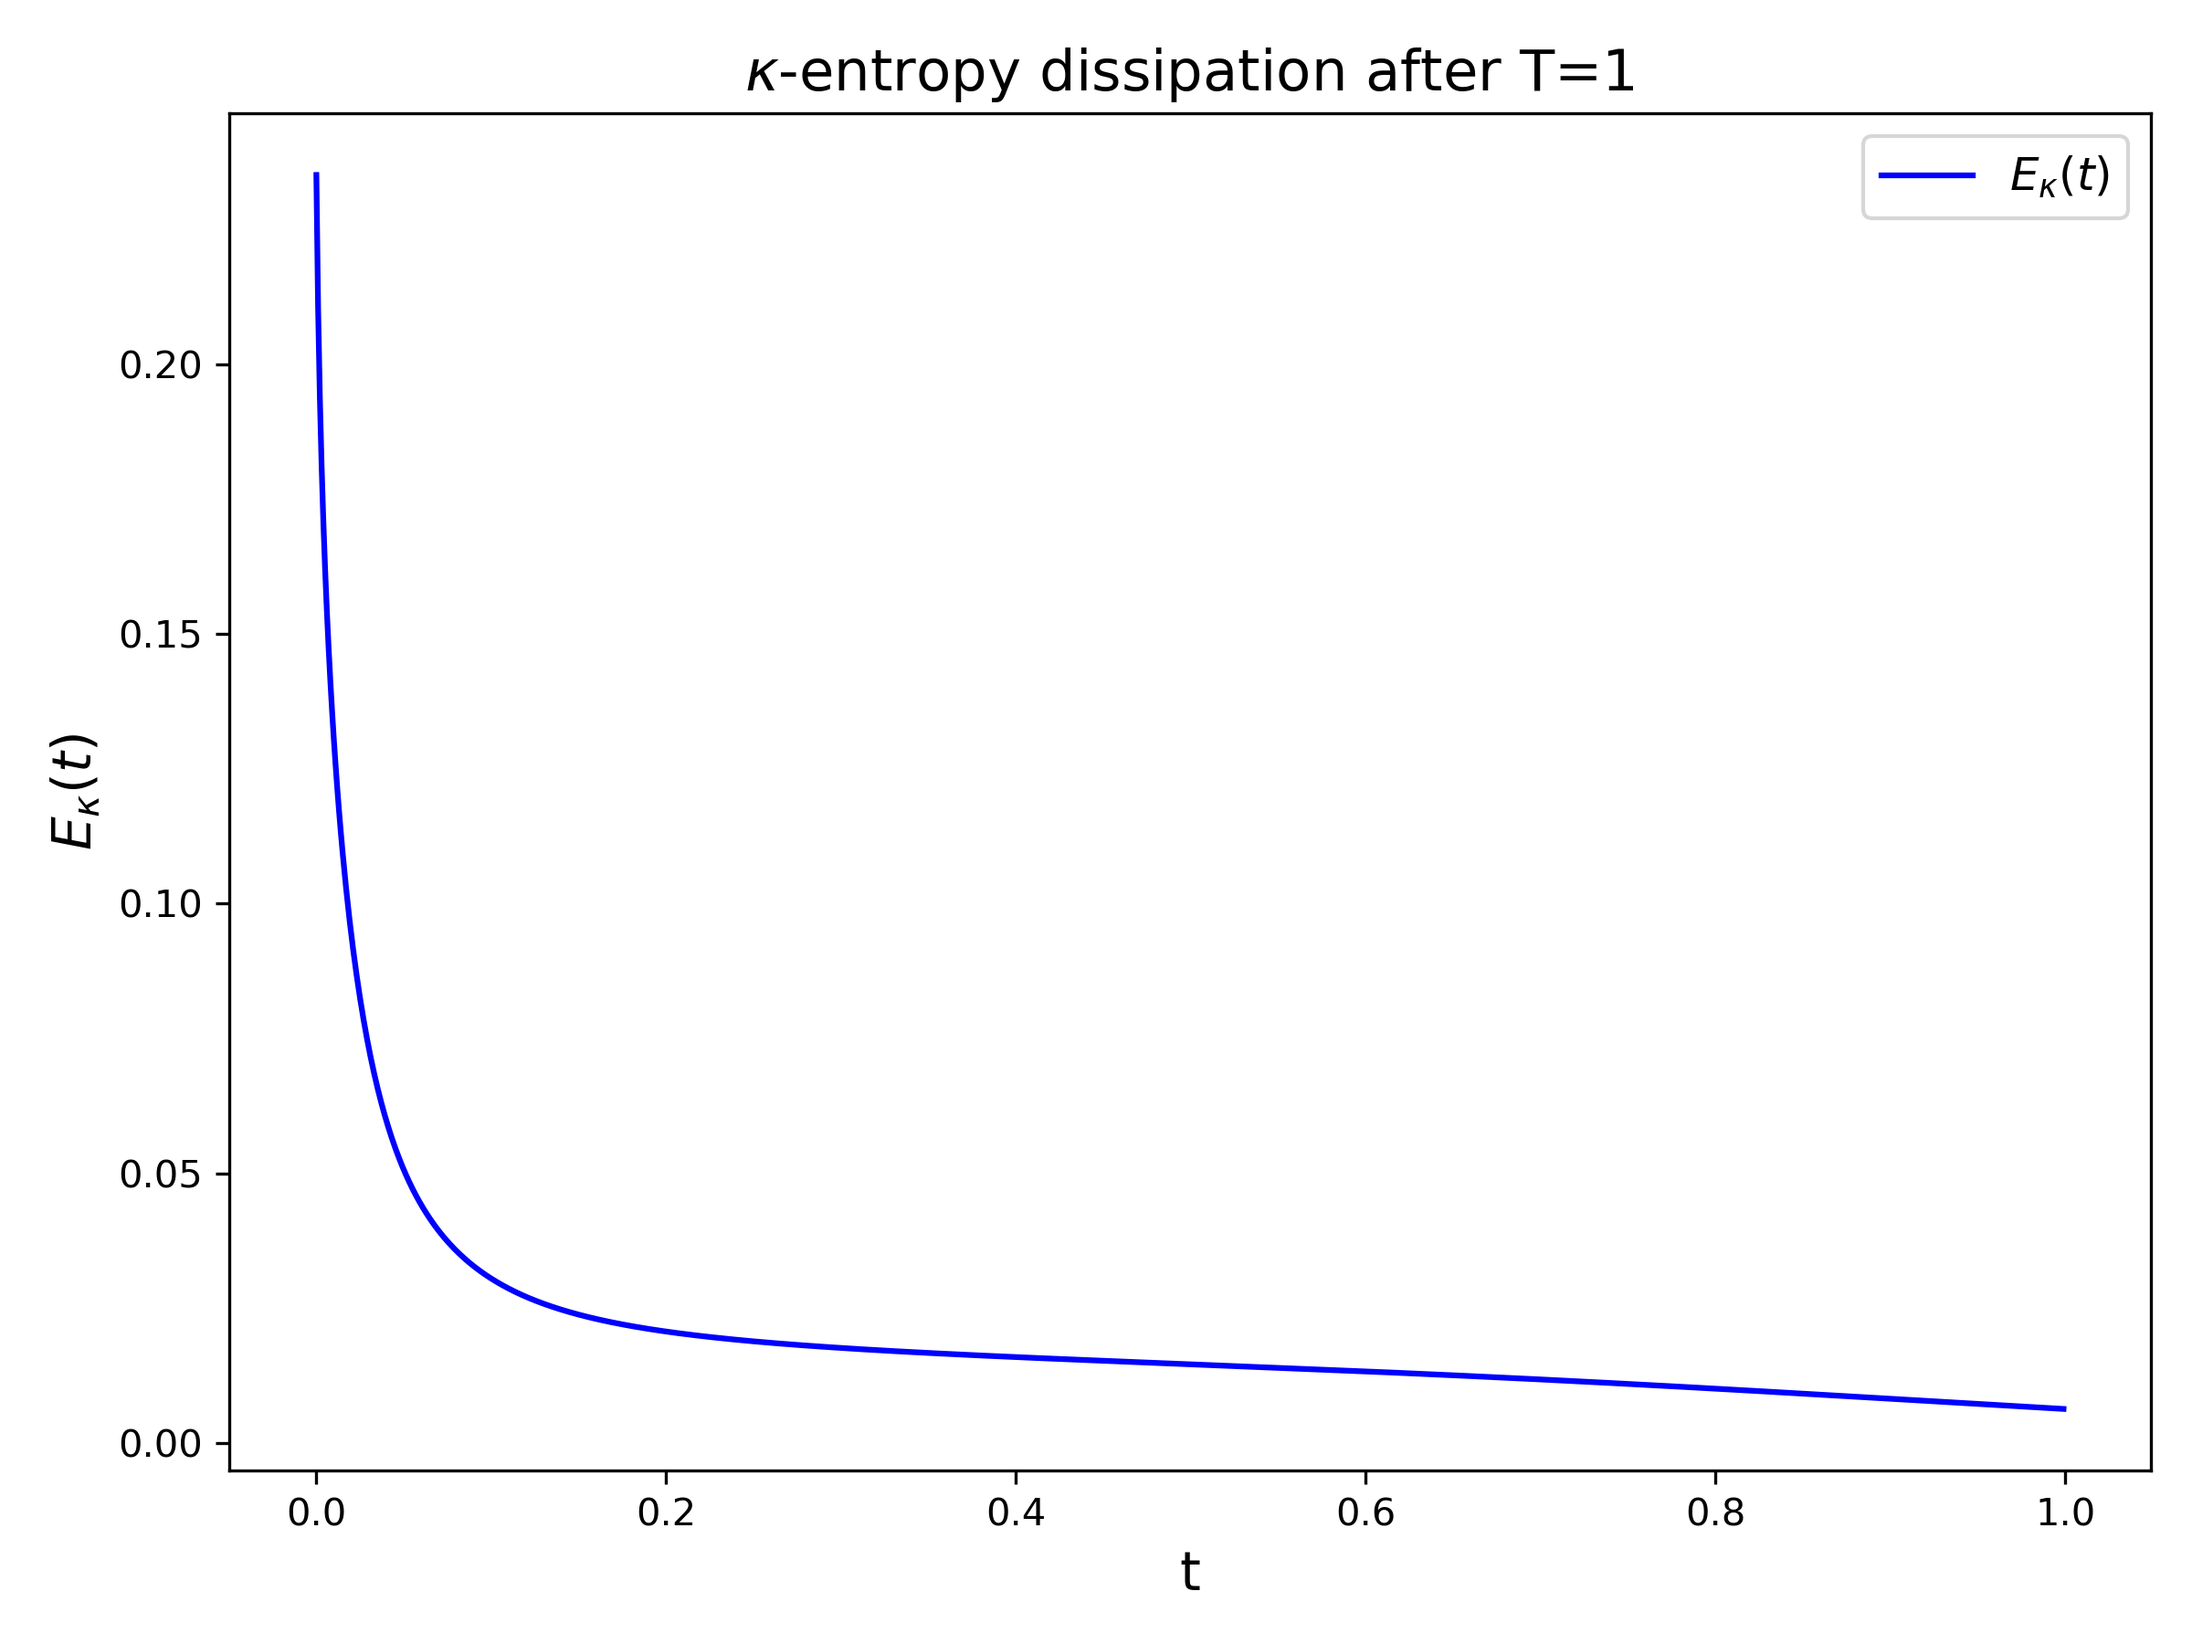
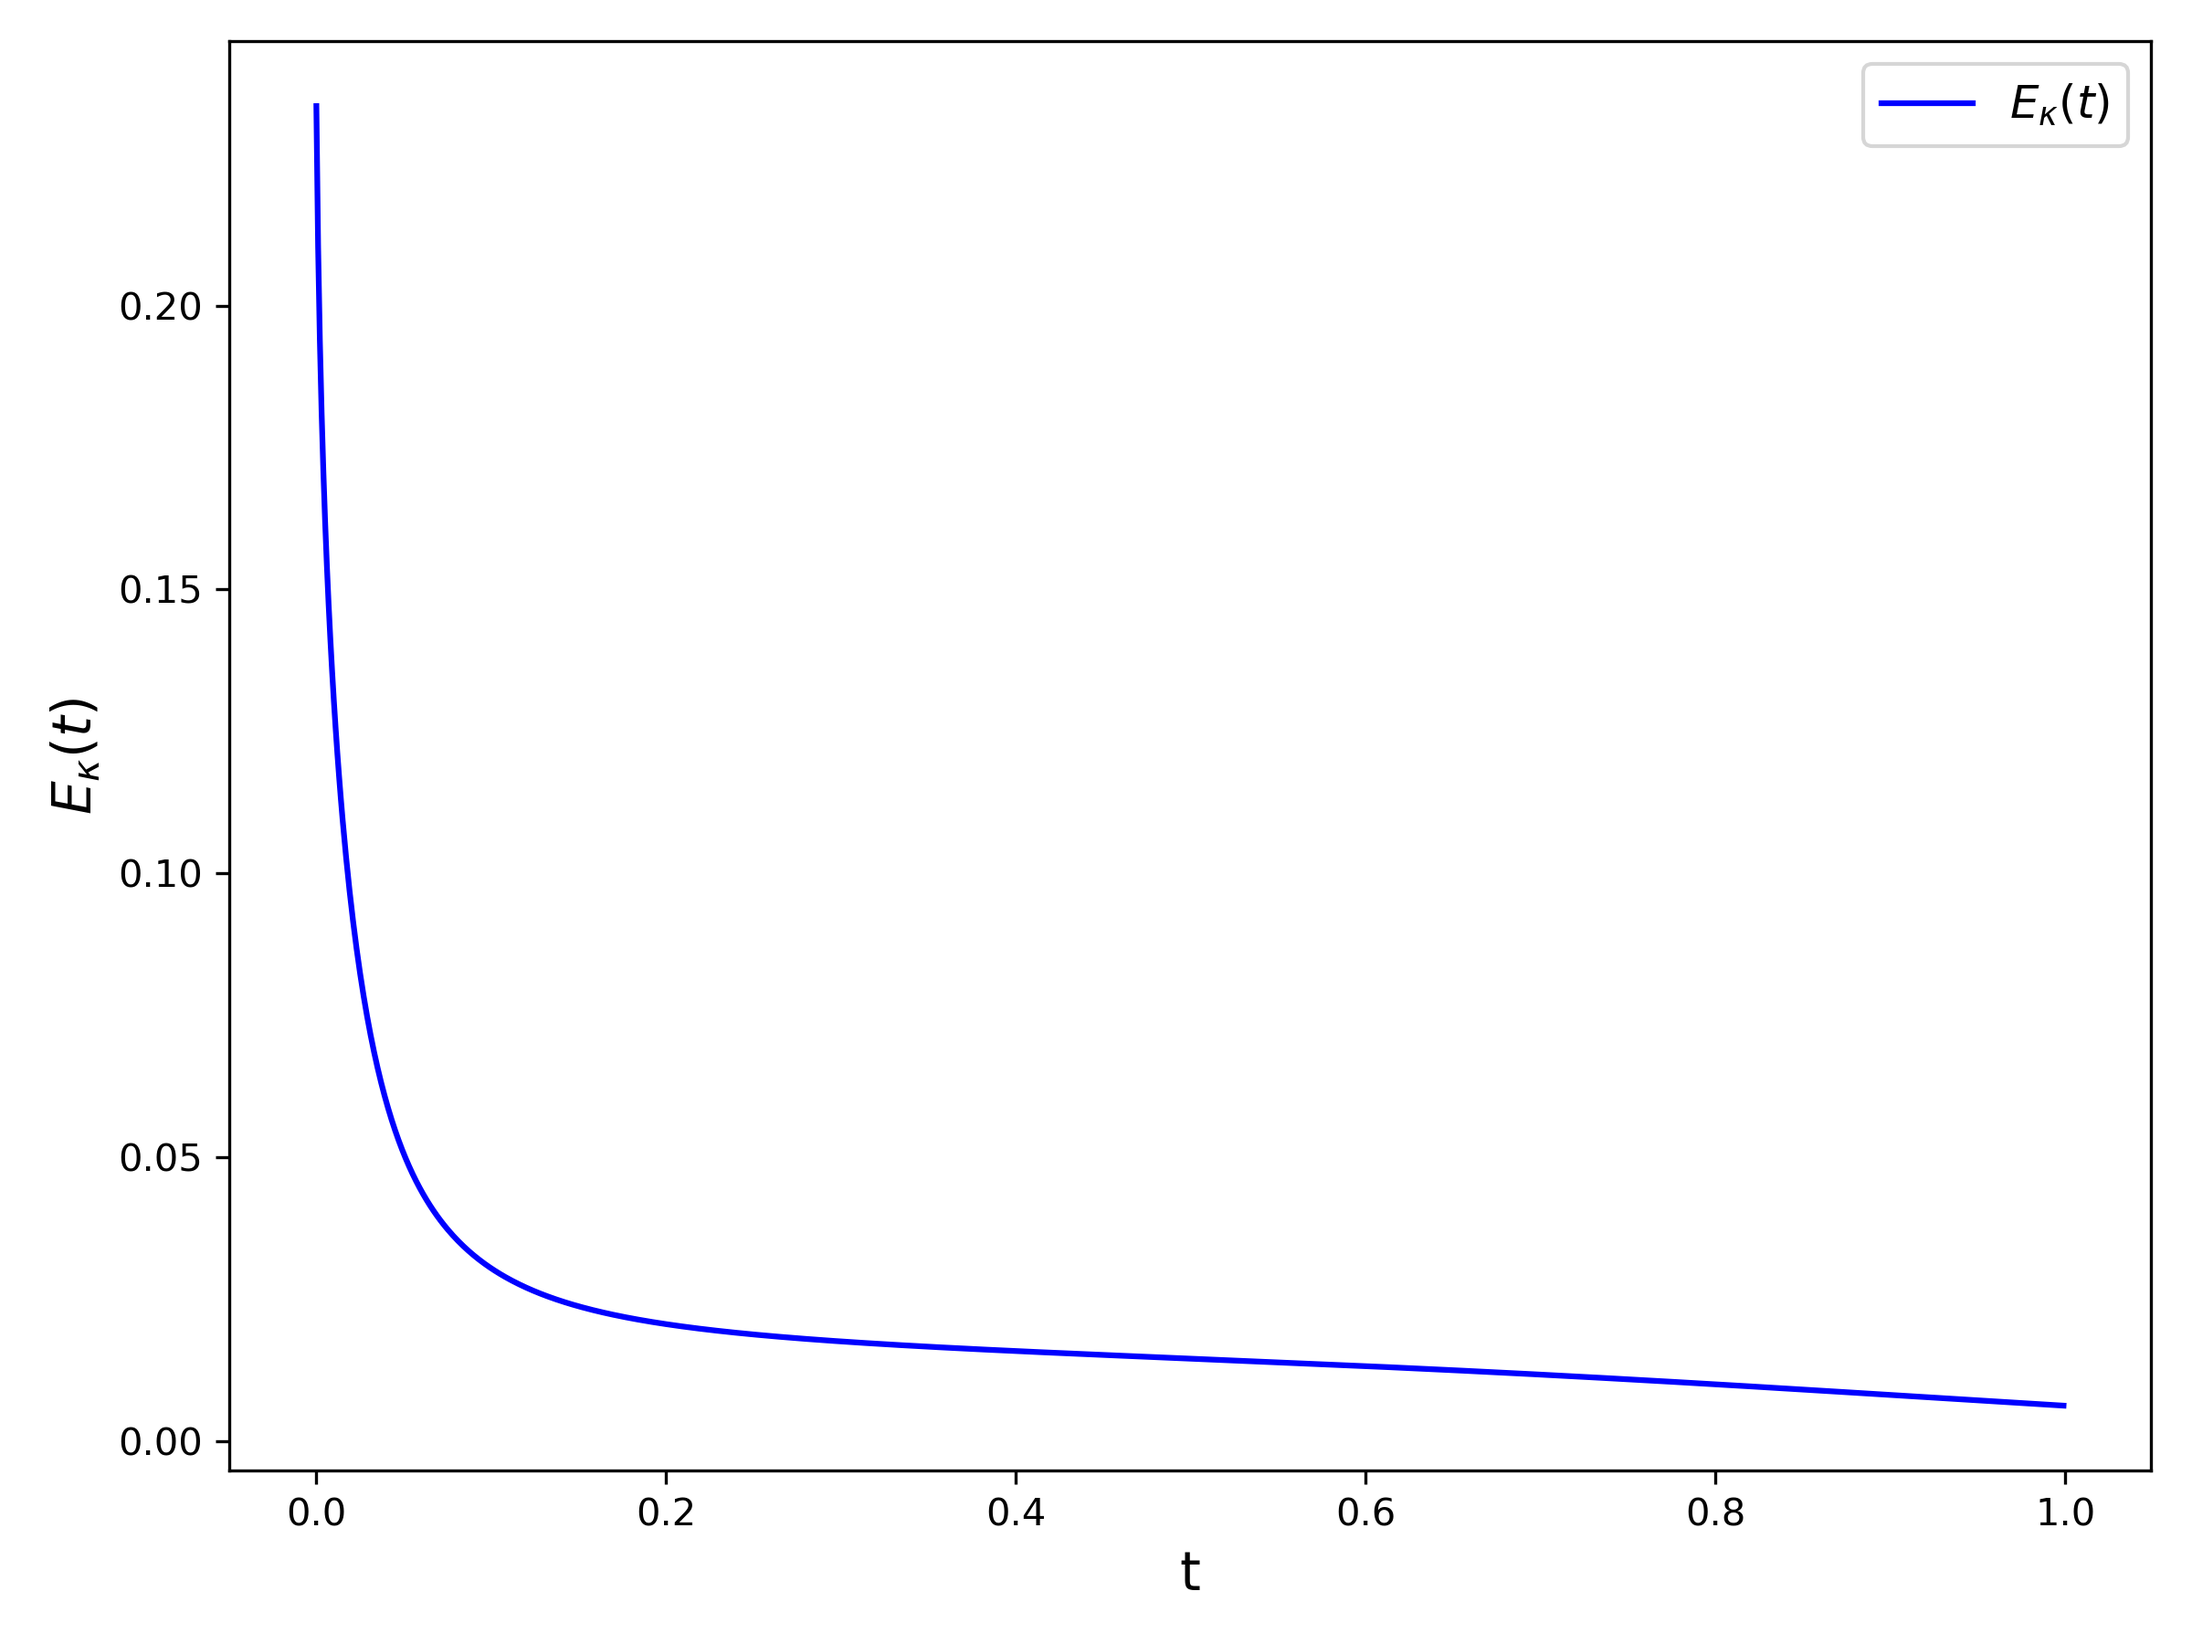
commit

diff --git a/solvers/1d_plot_en.py b/solvers/1d_plot_en.py
@@ -25,7 +25,7 @@ for i in np.where(increasing)[0]:
 
 plt.xlabel('t', fontsize=14)
 plt.ylabel("$E_{\kappa}(t)$", fontsize=14)
-plt.title("$\kappa$-entropy dissipation after T=1", fontsize=15)
+#plt.title("$\kappa$-entropy dissipation after T=1", fontsize=15)
 
 plt.legend(fontsize=12)
 #plt.grid(True, linestyle='--', alpha=0.4)
